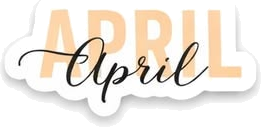
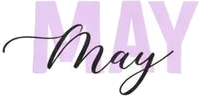
Add files via upload

diff --git a/jar.html b/jar.html
@@ -2,12 +2,7 @@
 <title>Jar · LoveYourself</title><link rel="icon" href="favicon.svg" type="image/svg+xml"><link rel="stylesheet" href="pages.css?v=1"></head>
 <body>
 <div class="bar"><a class="back" href="win.html">← all jars</a><div id="backup" class="row" style="margin:0"></div></div>
-<img class="deco" src="boba.png" style="width:80px;left:2%;top:140px;transform:rotate(-6deg)" alt="">
-<img class="deco" src="heart.png" style="width:60px;right:3%;top:180px" alt="">
-<img class="deco" src="butterfly.png" style="width:90px;right:2%;top:420px;transform:rotate(8deg)" alt="">
-<img class="deco" src="latte.png" style="width:80px;left:2%;top:420px;transform:rotate(-6deg)" alt="">
-<img class="deco" src="cookies.png" style="width:70px;left:3%;top:700px" alt="">
-<img class="deco" src="roses.png" style="width:80px;right:2%;top:700px;transform:rotate(7deg)" alt="">
+<div class="side l" data-kw="bo_02,fj_11,cf_10,bo_20"></div><div class="side r" data-kw="cf_02,bo_13,fj_23,cf_22"></div>
 <main class="wrap">
   <div class="jarhead" id="head"></div>
   <div class="emo"><span>✨</span><span>💗</span><span>🌸</span><span>⭐</span><span>🦋</span></div>
@@ -15,5 +10,5 @@
   <div class="card"><textarea class="note" id="txt" placeholder="write it here…"></textarea>
     <div class="row"><span class="pill" id="now" style="cursor:default"></span><button class="pill" id="add">Drop it in the jar ✨</button></div></div>
   <h2 class="sec" id="count"></h2><div id="list"></div>
-<div class="strip"><img src="goodthings.png" alt=""><img src="yougotthis.png" alt=""><img src="smallsteps.png" alt=""></div></main>
-<script src="common.js"></script><script src="jar.js"></script></body></html>
+<div class="strip kws" data-kw="bo_23,fj_31,cf_31,fj_40,bo_30,fj_33,cf_32"></div></main>
+<script src="common.js"></script><script src="jar.js"></script><script src="deco.js"></script></body></html>

diff --git a/pages.css b/pages.css
@@ -61,3 +61,19 @@ h2.sec{font-family:'Playfair Display',serif;font-style:italic;color:var(--wine);
 .strip{display:flex;justify-content:center;gap:.6rem;flex-wrap:wrap;margin:1.2rem 0}.strip img{height:74px;width:auto;filter:drop-shadow(0 4px 6px rgba(78,18,32,.2))}
 .day i{position:absolute;top:-4px;right:-2px;font-style:normal;font-size:.9rem}
 @media(max-width:600px){.deco{display:block;width:56px!important;opacity:.7}.strip img{height:54px}}
+
+.jarcard .ji{height:230px;display:grid;place-items:center}
+.jw{position:relative;display:block;width:165px;height:220px}.jw>img.j{width:100%;height:100%;max-height:none;object-fit:contain}
+.jarhead .ji{height:auto;display:grid;place-items:center}.jarhead .jw{width:200px;height:265px}
+.jarcard h3,.jarcard small{position:relative;z-index:1}
+body{position:relative}
+.kw{position:relative;display:inline-block;width:92px;animation:fl 3.6s ease-in-out infinite}.kw:nth-child(2n){animation-delay:-1.2s}.kw:nth-child(3n){animation-delay:-2.4s}
+.kw img{width:100%;height:auto;filter:drop-shadow(0 4px 6px rgba(78,18,32,.2))}
+.kw .lid{position:absolute;translate:-50% -50%;aspect-ratio:1;border-radius:50%;transform:scaleY(0)}
+.kw .lid::after{content:'';position:absolute;left:10%;right:10%;top:52%;height:2px;border-radius:2px;background:#3a2218}
+.side{position:absolute;top:120px;display:flex;flex-direction:column;gap:56px;z-index:1;pointer-events:none}
+.side.l{left:1.2%}.side.r{right:1.2%}.side .kw{width:88px}
+.strip.kws{gap:.4rem}.strip .kw{width:84px}
+.novw{position:relative;display:inline-block}.novw .msticker{display:block}
+.novw span{position:absolute;left:8%;right:0;bottom:2%;text-align:center;font:400 2.1rem 'Great Vibes',cursive;color:#222;white-space:nowrap;line-height:1}
+@media(max-width:900px){.side{display:none}.strip .kw{width:64px}}

diff --git a/win.html b/win.html
@@ -2,13 +2,11 @@
 <title>Win Jar · LoveYourself</title><link rel="icon" href="favicon.svg" type="image/svg+xml"><link rel="stylesheet" href="pages.css?v=1"></head>
 <body>
 <div class="bar"><a class="back" href="index.html#tabs">← all tabs</a><div id="backup" class="row" style="margin:0"></div></div>
-<img class="deco" src="latte.png" style="width:90px;left:2%;top:90px;transform:rotate(-8deg)" alt="">
-<img class="deco" src="roses.png" style="width:90px;right:2%;top:120px;transform:rotate(8deg)" alt="">
-<img class="deco" src="cookies.png" style="width:80px;left:3%;top:620px" alt="">
+<div class="side l" data-kw="bo_00,cf_00,bo_21,fj_01,bo_10"></div><div class="side r" data-kw="cf_20,bo_03,fj_03,cf_11,bo_12"></div>
 <main class="wrap">
   <div class="honey"><img src="ly_jar_honey.png" alt="a smiling jar"><i class="lid" style="left:34.5%;top:54%"></i><i class="lid" style="left:62.3%;top:54%;animation-delay:.03s"></i></div>
   <div class="emo"><span>🍯</span><span>✨</span><span>💗</span><span>🌸</span><span>⭐</span></div><h1 class="title">Win Jar</h1>
   <p class="sub">choose a jar · every little win counts</p>
   <div class="jars" id="jars"></div>
-<div class="strip"><img src="goodthings.png" alt=""><img src="boba.png" alt=""><img src="butterfly.png" alt=""><img src="cozymood.png" alt=""></div></main>
-<script src="common.js"></script><script src="jar.js"></script></body></html>
+<div class="strip kws" data-kw="fj_00,fj_02,fj_10,fj_21,fj_30,fj_41"></div><div class="strip kws" data-kw="bo_01,cf_21,bo_11,cf_01,bo_22,cf_12"></div></main>
+<script src="common.js"></script><script src="jar.js"></script><script src="deco.js"></script></body></html>

diff --git a/mood.js b/mood.js
@@ -16,7 +16,7 @@ const cat=(m,d)=>{const c=m?MOODS[m][1]:'#fff',tall=d%3!==0;
  return `<svg viewBox="0 0 60 64"><path d="M5 62V${tall?24:30}L10 ${tall?6:12}l11 11h18L50 ${tall?6:12}l5 ${tall?18:18}V62z" fill="${c}" stroke="#2b1a1e" stroke-width="2.6" stroke-linejoin="round"/><g fill="none" stroke="#2b1a1e" stroke-width="2" stroke-linecap="round">${m?F[m]:''}</g></svg>`};
 function render(){
  const n=dim(vy,vm); $('year').textContent=vy;
- const f=MS[vm]; $('msticker').innerHTML=f?`<img class="msticker" src="ly_m_${f}.png" alt="${MN[vm]}" onerror="this.outerHTML='<div class=mfall>${MN[vm].toUpperCase()}</div>'">`:`<div class="mfall">NOVEMBER</div>`;
+ const f=MS[vm]; $('msticker').innerHTML=f?`<img class="msticker" src="ly_m_${f}.png" alt="${MN[vm]}" onerror="this.outerHTML='<div class=mfall>${MN[vm].toUpperCase()}</div>'">`:`<div class="novw"><img class="msticker" src="ly_m_nov.png" alt="November"><span>November</span></div>`;
  const per=Math.ceil(n/4); let h='',d=1;
  for(let r=0;r<4&&d<=n;r++){h+='<div class="shelf">';for(let i=0;i<per&&d<=n;i++,d++){
   const e=data[key(vy,vm,d)],isT=vy===T.getFullYear()&&vm===T.getMonth()&&d===T.getDate();

diff --git a/deco.js b/deco.js
@@ -1,0 +1,5 @@
+/* kawaii stickers with blinking eyes: <div data-kw="bo_00,cf_01,fj_02"></div> */
+(()=>{const E={"bo_33": [[31.5, 31.1, 12.0, "#f6c48d"], [59.8, 34.3, 12.0, "#efb378"]], "cf_11": [[29.8, 60.0, 18.8, "#c97b2e"], [58.8, 60.6, 19.6, "#ad6416"]], "cf_12": [[26.5, 63.8, 19.0, "#e4a963"], [54.2, 64.7, 18.3, "#c3833d"]], "cf_20": [[33.3, 67.4, 18.4, "#d79449"], [60.4, 67.4, 18.4, "#bb782e"]], "cf_32": [[29.0, 56.5, 16.6, "#efd3ae"], [55.0, 56.6, 17.3, "#d0a776"]]};
+const mk=n=>{const w=document.createElement('span');w.className='kw';
+ w.innerHTML=`<img src="ly_s_${n}.png" alt="">`+(E[n]||[]).map(([x,y,d,c],i)=>`<i class="lid" style="left:${x}%;top:${y}%;width:${d}%;background:${c};animation-delay:${i*.02}s"></i>`).join('');return w};
+document.querySelectorAll('[data-kw]').forEach(el=>el.dataset.kw.split(',').forEach(n=>el.appendChild(mk(n.trim()))));})();

diff --git a/README.md b/README.md
@@ -1,6 +1,6 @@
 # LoveYourself – upload guide
-Everything is now FLAT (no folders). Upload ALL files in this folder into the ROOT of your repo, next to your existing stickers.
-- index.html MUST replace the old index.html (your tabs only change after this).
-- Delete `index .html` (has a space) and old `mood.css`.
-- After upload, wait ~1 minute and hard-refresh (Ctrl+Shift+R, or reload twice on phone).
-- Files starting with ly_ are the cut-out jars, month stickers and flowers.
+Upload ALL files in this folder to the ROOT of your repo (no folders), next to your existing stickers.
+- Let index.html, mood.html, mood.js, win.html, jar.html, jar.js, common.js, pages.css replace the old ones.
+- New: deco.js (blinking stickers) and many ly_ image files (jars, months, kawaii stickers).
+- Delete `index .html` (with a space) and the old `mood.css` from the repo.
+- Hard-refresh after upload (Ctrl+Shift+R, or reload twice on phone).
